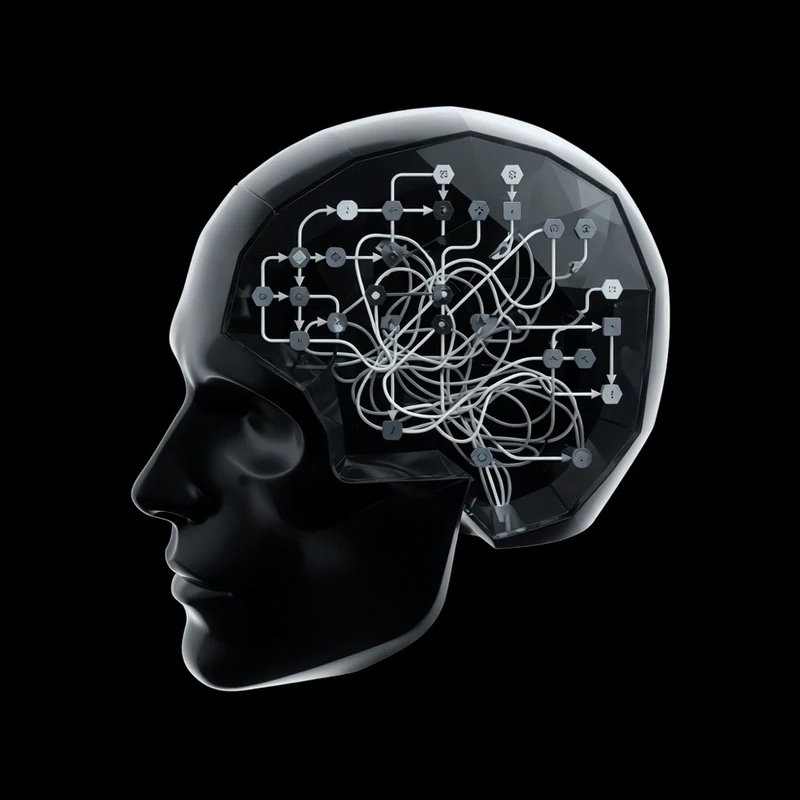
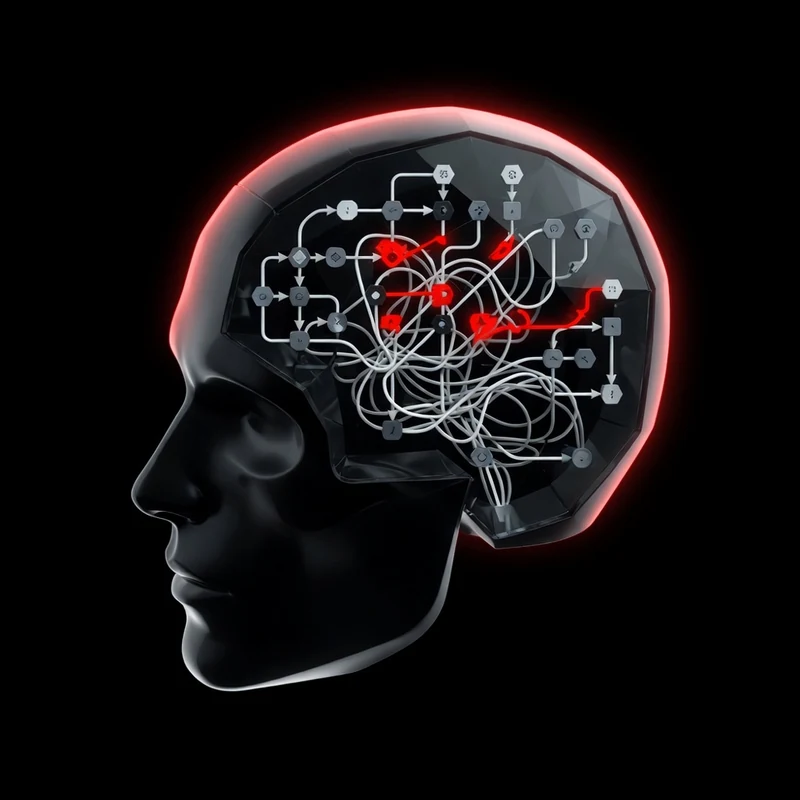
feat: add red accents and a mobile carousel to the friction block
The three patterns stay side by side on desktop. On small screens they
become a swipeable carousel with dots, auto-advancing every 10 seconds.

Changed region(s): [[0.1875, 0.0938, 0.875, 0.6875], [0.4688, 0.2812, 0.7812, 0.4375], [0.5625, 0.6562, 0.625, 0.6875]]

diff --git a/src/components/problem-rail.tsx b/src/components/problem-rail.tsx
@@ -1,0 +1,181 @@
+"use client";
+
+import Image from "next/image";
+import { useCallback, useEffect, useRef, useState } from "react";
+
+const INTERVAL_MS = 10000;
+const MD_QUERY = "(min-width: 768px)";
+const REDUCE_QUERY = "(prefers-reduced-motion: reduce)";
+
+export type Problem = {
+  kicker: string;
+  title: string;
+  text: string;
+  image: string;
+};
+
+/**
+ * Desktop: três colunas. Mobile: carrossel com arraste, três pontos e
+ * troca automática a cada 10 s. Preferência de movimento reduzido desliga o auto.
+ */
+export function ProblemRail({ items }: { items: readonly Problem[] }) {
+  const scrollerRef = useRef<HTMLUListElement>(null);
+  const [active, setActive] = useState(0);
+  const [desktop, setDesktop] = useState(false);
+  const dragging = useRef(false);
+
+  useEffect(() => {
+    const mq = window.matchMedia(MD_QUERY);
+    const sync = () => setDesktop(mq.matches);
+    sync();
+    mq.addEventListener("change", sync);
+    return () => mq.removeEventListener("change", sync);
+  }, []);
+
+  useEffect(() => {
+    if (!desktop) return;
+    scrollerRef.current?.scrollTo({ left: 0 });
+  }, [desktop]);
+
+  const goTo = useCallback((index: number, smooth = true) => {
+    const el = scrollerRef.current;
+    if (!el) return;
+    const slide = el.children[index] as HTMLElement | undefined;
+    if (!slide) return;
+    el.scrollTo({
+      left: index * el.clientWidth,
+      behavior: smooth ? "smooth" : "auto",
+    });
+    setActive(index);
+  }, []);
+
+  useEffect(() => {
+    const el = scrollerRef.current;
+    if (!el || desktop) return;
+
+    const onScroll = () => {
+      const w = el.clientWidth;
+      if (w <= 0) return;
+      const next = Math.round(el.scrollLeft / w);
+      setActive(Math.max(0, Math.min(items.length - 1, next)));
+    };
+
+    el.addEventListener("scroll", onScroll, { passive: true });
+    return () => el.removeEventListener("scroll", onScroll);
+  }, [desktop, items.length]);
+
+  useEffect(() => {
+    if (desktop) return;
+    if (window.matchMedia(REDUCE_QUERY).matches) return;
+
+    const timer = window.setInterval(() => {
+      if (dragging.current) return;
+      const el = scrollerRef.current;
+      if (!el) return;
+      const w = el.clientWidth;
+      const current = w > 0 ? Math.round(el.scrollLeft / w) : 0;
+      goTo((current + 1) % items.length);
+    }, INTERVAL_MS);
+
+    return () => window.clearInterval(timer);
+  }, [active, desktop, goTo, items.length]);
+
+  return (
+    <div className="relative">
+      <div
+        aria-hidden
+        className="pointer-events-none absolute right-[12%] left-[12%] hidden h-px overflow-visible md:block"
+        style={{
+          top: 226,
+          backgroundImage:
+            "repeating-linear-gradient(90deg, #3a1414 0 7px, transparent 7px 14px)",
+        }}
+      >
+        <span
+          data-nx-anim="stall"
+          className="absolute top-1/2 size-[9px] -translate-x-1/2 -translate-y-1/2 rounded-full bg-nx-red [animation:nx-stall_3.8s_ease-in-out_infinite] [box-shadow:0_0_0_4px_rgba(225,6,0,.18)]"
+        />
+      </div>
+
+      <ul
+        ref={scrollerRef}
+        onPointerDown={() => {
+          dragging.current = true;
+        }}
+        onPointerUp={() => {
+          dragging.current = false;
+        }}
+        onPointerCancel={() => {
+          dragging.current = false;
+        }}
+        className="flex snap-x snap-mandatory overflow-x-auto overscroll-x-contain [-ms-overflow-style:none] [scrollbar-width:none] md:grid md:grid-cols-[minmax(0,1fr)_minmax(0,1fr)_minmax(0,1fr)] md:gap-8 md:overflow-visible md:snap-none [&::-webkit-scrollbar]:hidden"
+      >
+        {items.map((problem, index) => (
+          <li
+            key={problem.title}
+            className="group relative w-full shrink-0 snap-center px-1 md:w-auto md:shrink md:px-0"
+          >
+            <div className="flex flex-col items-center text-center">
+              <figure className="relative mx-auto mb-10 w-[min(100%,220px)]">
+                <span
+                  aria-hidden
+                  data-nx-anim="halo"
+                  className="absolute inset-[20%] rounded-full bg-nx-red/30 blur-3xl [animation:nx-halo_3.4s_ease-in-out_infinite]"
+                  style={{ animationDelay: `${index * 0.45}s` }}
+                />
+                <div
+                  data-nx-anim="float"
+                  className="relative [animation:nx-float_5.6s_ease-in-out_infinite]"
+                  style={{
+                    animationDelay: `${index * 0.7}s`,
+                    WebkitMaskImage:
+                      "radial-gradient(circle at center, #000 74%, transparent 97%)",
+                    maskImage:
+                      "radial-gradient(circle at center, #000 74%, transparent 97%)",
+                  }}
+                >
+                  <Image
+                    src={problem.image}
+                    alt=""
+                    width={800}
+                    height={800}
+                    unoptimized
+                    loading="eager"
+                    className="relative h-auto w-full mix-blend-screen transition-transform duration-500 ease-[cubic-bezier(.2,.8,.2,1)] group-hover:scale-[1.05]"
+                  />
+                </div>
+              </figure>
+              <p className="nx-label-red">{problem.kicker}</p>
+              <p className="mt-4 mb-3 max-w-[22ch] font-display text-[22px]/[1.25] font-medium tracking-[-0.02em] text-white md:text-[24px]/[1.25]">
+                {problem.title}
+              </p>
+              <p className="nx-body max-w-[36ch]">{problem.text}</p>
+            </div>
+          </li>
+        ))}
+      </ul>
+
+      <div className="mt-6 flex justify-center md:hidden">
+        {items.map((problem, index) => {
+          const on = active === index;
+          return (
+            <button
+              key={problem.title}
+              type="button"
+              aria-label={`Ver ${problem.kicker.toLowerCase()}`}
+              aria-current={on ? "true" : undefined}
+              onClick={() => goTo(index)}
+              className="flex h-11 w-11 items-center justify-center"
+            >
+              <span
+                className={`h-2 rounded-full transition-[width,background-color] duration-300 ease-[cubic-bezier(.2,.8,.2,1)] ${
+                  on ? "w-6 bg-nx-red" : "w-2 bg-nx-dim"
+                }`}
+              />
+            </button>
+          );
+        })}
+      </div>
+    </div>
+  );
+}

diff --git a/src/app/page.tsx b/src/app/page.tsx
@@ -3,11 +3,11 @@ import Link from "next/link";
 
 import { CtaForm } from "@/components/cta-block";
 import { FaqSection, type FaqItem } from "@/components/faq";
+import { ProblemRail } from "@/components/problem-rail";
 import { StepList, type Step } from "@/components/step-track";
 import { HeroBackdrop, HeroPill, Section, SectionHead } from "@/components/ui";
 import { WaLink } from "@/components/wa-link";
 
-/** Sem vermelho nesta seção — ele volta na solução (Brand Book §09, seção 02). */
 const PROBLEMS = [
   {
     kicker: "CONVERSA REPETIDA",
@@ -122,12 +122,13 @@ export default function HomePage() {
           />
           <div
             data-nx-anim="glow"
-            className="absolute inset-x-0 top-[42%] h-[420px] -translate-y-1/2 [animation:nx-drift_13s_ease-in-out_infinite] [background:radial-gradient(ellipse_at_50%_50%,rgba(255,255,255,.06),transparent_62%)]"
+            className="absolute inset-x-0 top-[42%] h-[420px] -translate-y-1/2 [animation:nx-drift_13s_ease-in-out_infinite] [background:radial-gradient(ellipse_at_50%_50%,rgba(225,6,0,.16),transparent_62%)]"
           />
         </div>
         <div className="relative mx-auto max-w-[1280px] px-5 py-24 md:px-8 lg:px-12">
           <SectionHead
             eyebrow="O QUE TRAVA A OPERAÇÃO"
+            eyebrowTone="red"
             title={
               <span className="block max-w-[26ch]">
                 O trabalho existe. O sistema não acompanha.
@@ -136,65 +137,7 @@ export default function HomePage() {
             lead="Três padrões que aparecem em quase toda operação antes de existir sistema."
             className="mb-14"
           />
-          <div className="relative">
-            <div
-              aria-hidden
-              className="pointer-events-none absolute right-[12%] left-[12%] hidden h-px overflow-visible md:block"
-              style={{
-                top: 226,
-                backgroundImage:
-                  "repeating-linear-gradient(90deg, #2a2a2a 0 7px, transparent 7px 14px)",
-              }}
-            >
-              <span
-                data-nx-anim="stall"
-                className="absolute top-1/2 size-[9px] -translate-x-1/2 -translate-y-1/2 rounded-full bg-[#d8d8d8] [animation:nx-stall_3.8s_ease-in-out_infinite] [box-shadow:0_0_0_4px_rgba(216,216,216,.16)]"
-              />
-            </div>
-            <ol className="grid grid-cols-1 gap-12 md:grid-cols-[minmax(0,1fr)_minmax(0,1fr)_minmax(0,1fr)] md:gap-8">
-              {PROBLEMS.map((problem, index) => (
-                <li
-                  key={problem.title}
-                  className="group relative flex flex-col items-center text-center"
-                >
-                  <figure className="relative mx-auto mb-10 w-[min(100%,220px)]">
-                    <span
-                      aria-hidden
-                      data-nx-anim="halo"
-                      className="absolute inset-[20%] rounded-full bg-white/10 blur-3xl [animation:nx-halo_3.4s_ease-in-out_infinite]"
-                      style={{ animationDelay: `${index * 0.45}s` }}
-                    />
-                    <div
-                      data-nx-anim="float"
-                      className="relative [animation:nx-float_5.6s_ease-in-out_infinite]"
-                      style={{
-                        animationDelay: `${index * 0.7}s`,
-                        WebkitMaskImage:
-                          "radial-gradient(circle at center, #000 74%, transparent 97%)",
-                        maskImage:
-                          "radial-gradient(circle at center, #000 74%, transparent 97%)",
-                      }}
-                    >
-                      <Image
-                        src={problem.image}
-                        alt=""
-                        width={800}
-                        height={800}
-                        unoptimized
-                        loading="eager"
-                        className="relative h-auto w-full mix-blend-screen transition-transform duration-500 ease-[cubic-bezier(.2,.8,.2,1)] group-hover:scale-[1.05]"
-                      />
-                    </div>
-                  </figure>
-                  <p className="nx-label">{problem.kicker}</p>
-                  <p className="mt-4 mb-3 max-w-[22ch] font-display text-[22px]/[1.25] font-medium tracking-[-0.02em] text-white md:text-[24px]/[1.25]">
-                    {problem.title}
-                  </p>
-                  <p className="nx-body max-w-[36ch]">{problem.text}</p>
-                </li>
-              ))}
-            </ol>
-          </div>
+          <ProblemRail items={PROBLEMS} />
         </div>
       </section>
 
